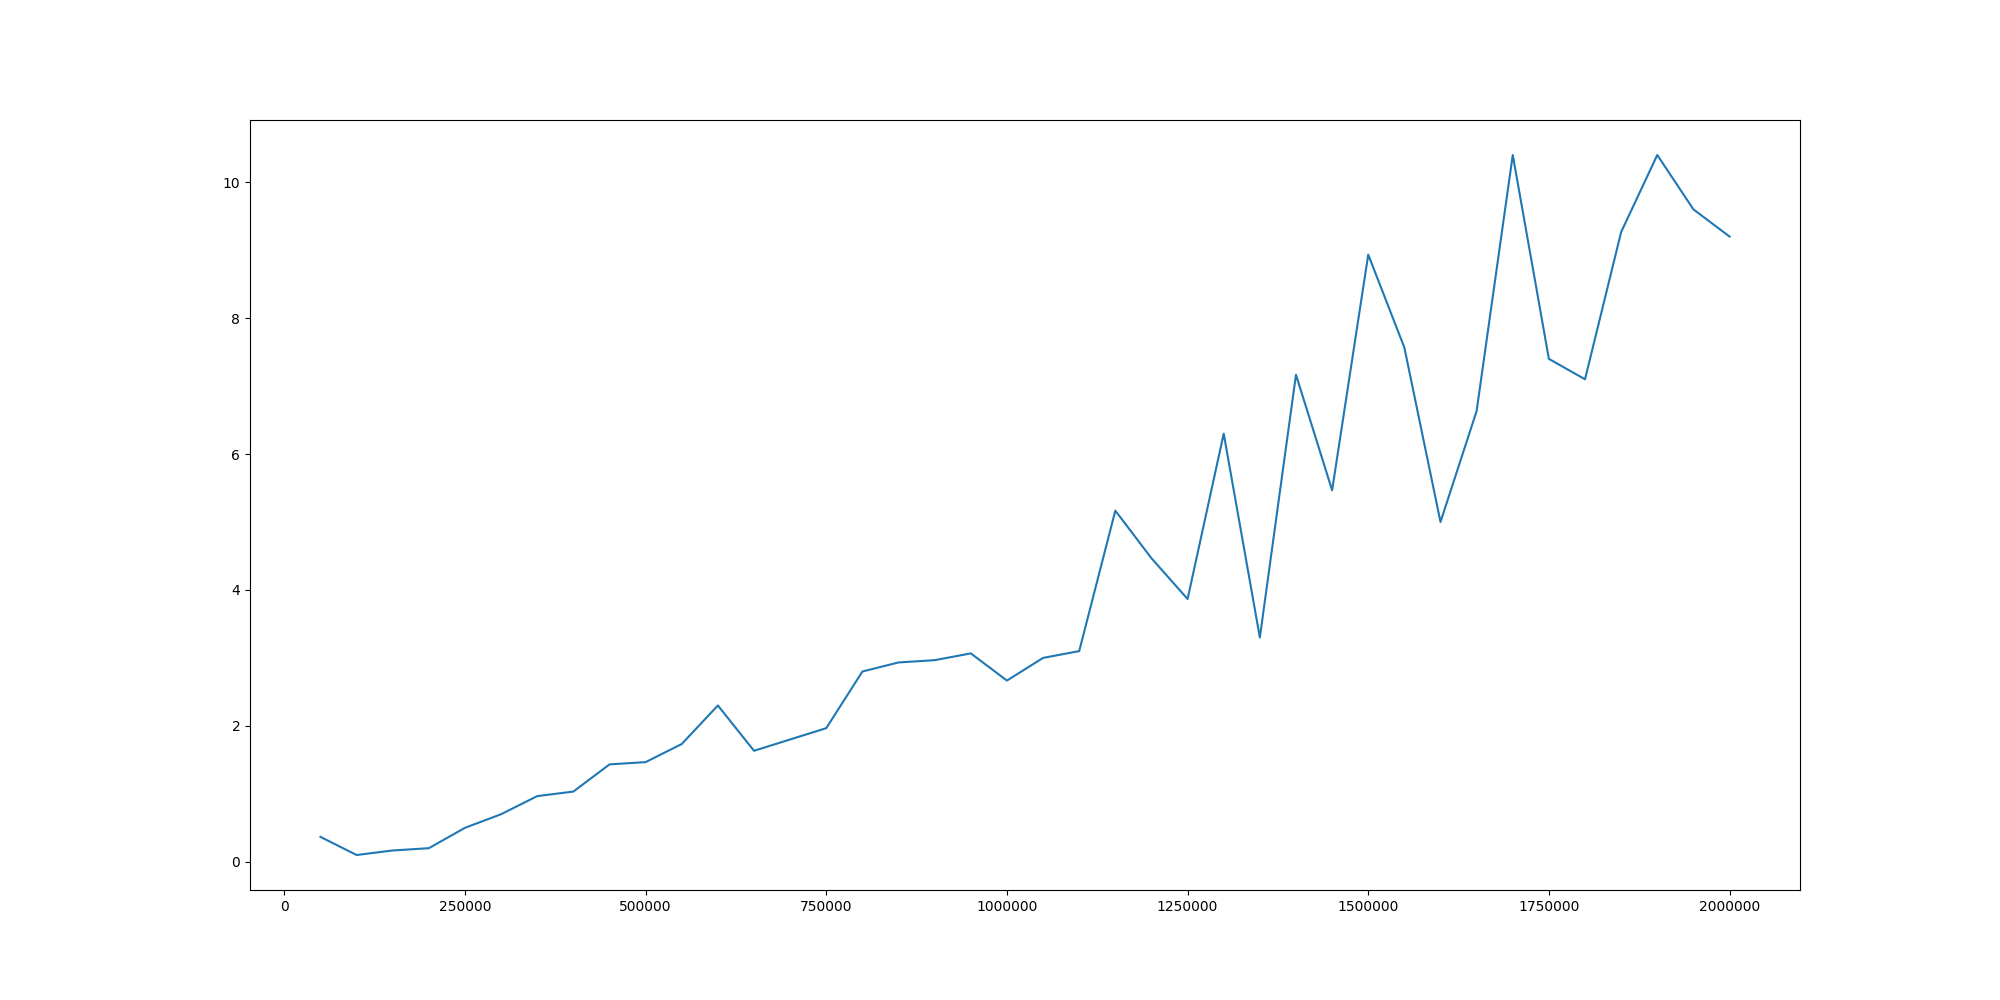
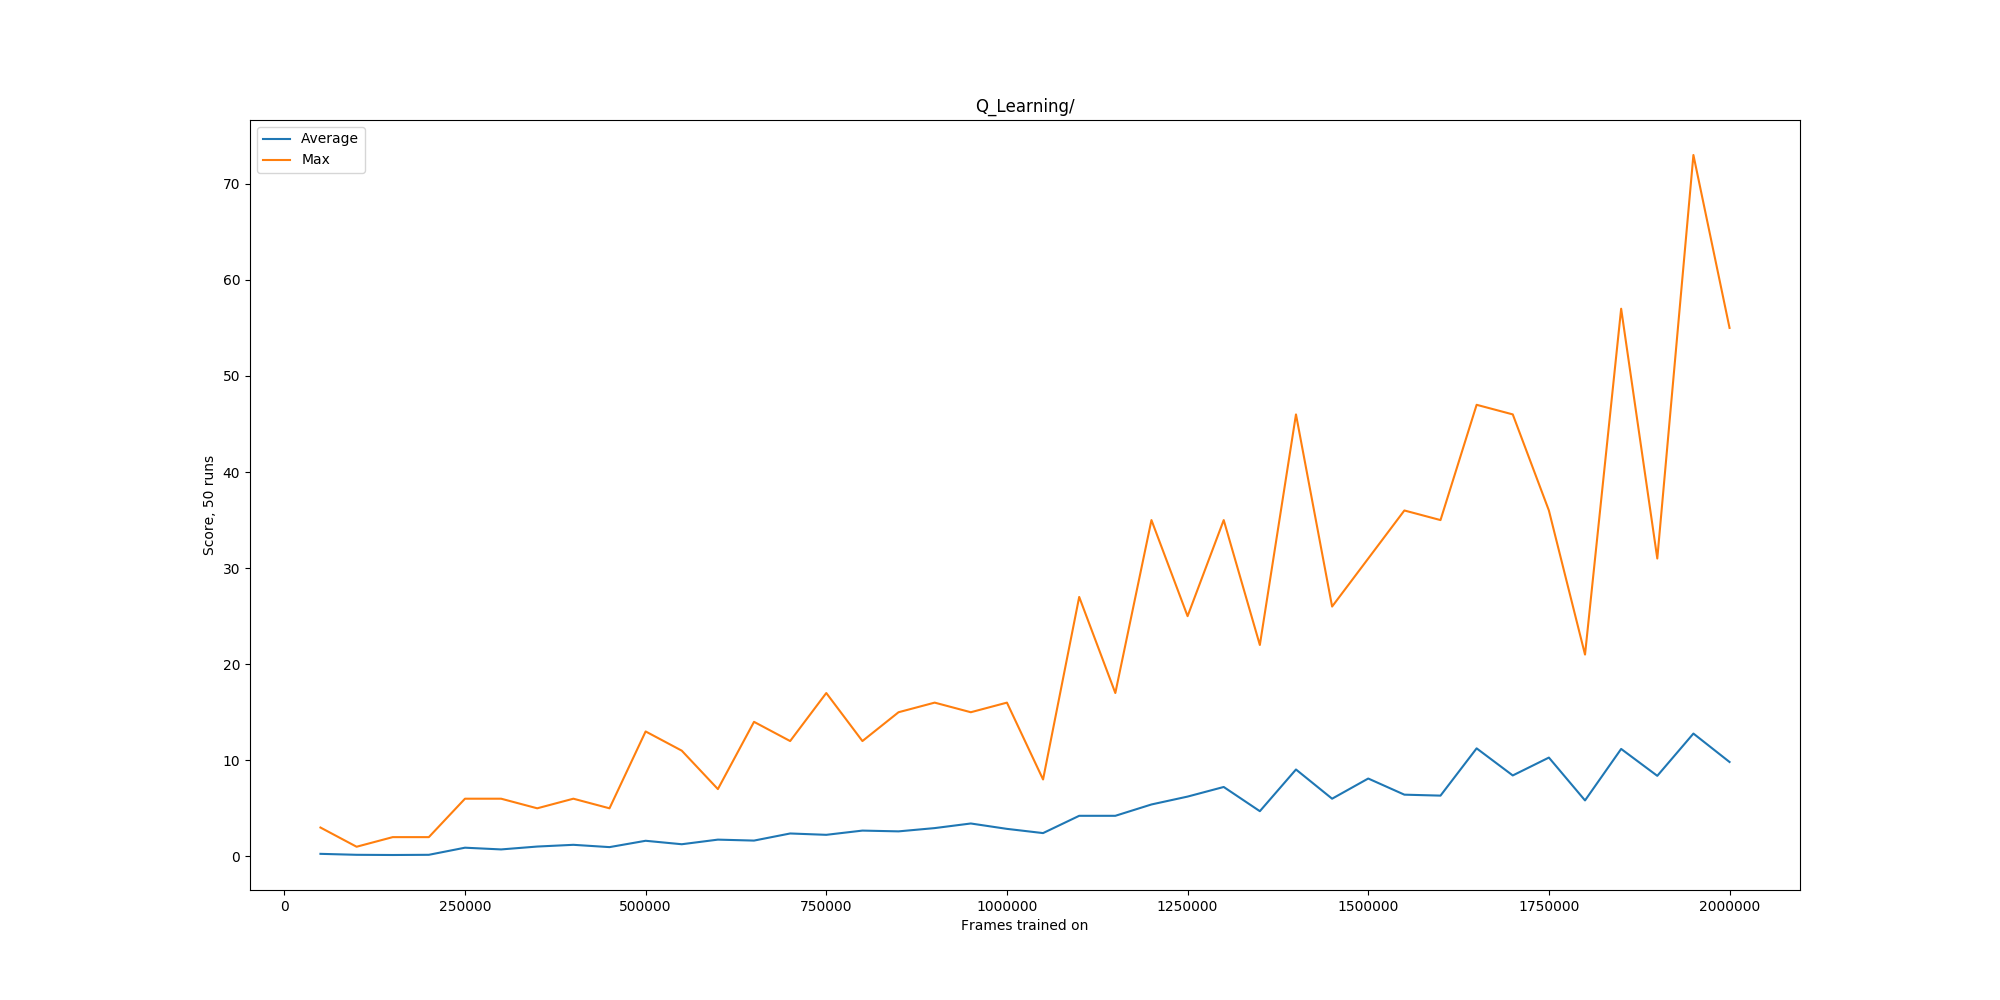
Ting goes skraj

diff --git a/flappy_agent.py b/flappy_agent.py
@@ -152,7 +152,7 @@ class FlappyAgentMCLearningRate(FlappyAgent):
         self.y_pos_intervals = [x[-1] for x in numpy.array_split(numpy.array(range(0, 388)), 15)]
         self.top_y_gap_intervals = [x[-1] for x in numpy.array_split(numpy.array(range(25, 193)), 15)]
         self.velocity_intervals = [x[-1] for x in numpy.array_split(numpy.array(range(-8, 11)), 15)]
-        self.horizontal_distance_next_pipe = [x[-1] for x in numpy.array_split(numpy.array(range(3, 284)), 15)] # ToDo: Maybe refactor and make the first interval a bit bigger.
+        self.horizontal_distance_next_pipe = [x[-1] for x in numpy.array_split(numpy.array(range(3, 284)), 15)]
 
         self.states = list(itertools.product(*[
             self.y_pos_intervals,
@@ -216,10 +216,10 @@ class FlappyAgentMCLearningRate(FlappyAgent):
     # 3. the horizontal distance between bird and next pipe (next_pipe_dist_to_player)
     # 4. the current velocity of the bird (player_vel)
     def parse_state(self, state):
-        y_pos = min(self.y_pos_intervals, key=lambda x:abs(x - state['player_y']))
-        top_y_gap = min(self.top_y_gap_intervals, key=lambda x:abs(x - state['next_pipe_top_y']))
-        horizontal_distance_next_pipe = min(self.horizontal_distance_next_pipe, key=lambda x:abs(x - state['next_pipe_dist_to_player']))
-        velocity = min(self.velocity_intervals, key=lambda x:abs(x - state['player_vel']))
+        y_pos = min(self.y_pos_intervals, key=lambda x: abs(x - state['player_y']))
+        top_y_gap = min(self.top_y_gap_intervals, key=lambda x: abs(x - state['next_pipe_top_y']))
+        horizontal_distance_next_pipe = min(self.horizontal_distance_next_pipe, key=lambda x: abs(x - state['next_pipe_dist_to_player']))
+        velocity = min(self.velocity_intervals, key=lambda x: abs(x - state['player_vel']))
 
         return y_pos, top_y_gap, horizontal_distance_next_pipe, velocity
 
@@ -231,7 +231,7 @@ class FlappyAgentQLearningLearningRate(FlappyAgent):
         self.y_pos_intervals = [x[-1] for x in numpy.array_split(numpy.array(range(0, 388)), 15)]
         self.top_y_gap_intervals = [x[-1] for x in numpy.array_split(numpy.array(range(25, 193)), 15)]
         self.velocity_intervals = [x[-1] for x in numpy.array_split(numpy.array(range(-8, 11)), 15)]
-        self.horizontal_distance_next_pipe = [x[-1] for x in numpy.array_split(numpy.array(range(3, 284)), 15)] # ToDo: Maybe refactor and make the first interval a bit bigger.
+        self.horizontal_distance_next_pipe = [x[-1] for x in numpy.array_split(numpy.array(range(3, 284)), 15)]
 
         self.states = list(itertools.product(*[
             self.y_pos_intervals,
@@ -360,21 +360,26 @@ def test_policy(nb_episodes, agent):
 
 
 def iterate_policies(folder, name, total, step):
-    episodes = []
-    scores = []
-    for episode in range(step, total+1, step):
-        file = folder + name + str(episode) + ".npy"
+    frames = []
+    average_scores = []
+    max_scores = []
+    for frame in range(step, total+1, step):
+        file = folder + name + str(frame) + ".npy"
         print(file)
         agent_to_test = FlappyAgentQLearningLearningRate(0.1)
         agent_to_test.pi = numpy.load(file).item()["Policy"]
-        max_score, average = test_policy(30, agent_to_test)
-        episodes.append(episode)
-        scores.append(average)
-    print(episodes)
-    print(scores)
+        max_score, average = test_policy(50, agent_to_test)
+        frames.append(frame)
+        average_scores.append(average)
+        max_scores.append(max_score)
     plt.figure(figsize=(20, 10))
-    plt.plot(episodes, scores)
-    plt.savefig("Q_Learning/" + name + ".png")
+    plt.title(folder)
+    plt.xlabel("Frames trained on")
+    plt.ylabel("Score, 50 runs")
+    average_line, = plt.plot(frames, average_scores, label="Average")
+    max_line, = plt.plot(frames, max_scores, label="Max")
+    plt.legend(handles=[average_line, max_line])
+    plt.savefig(folder + name + ".png")
     plt.show()
 
 
